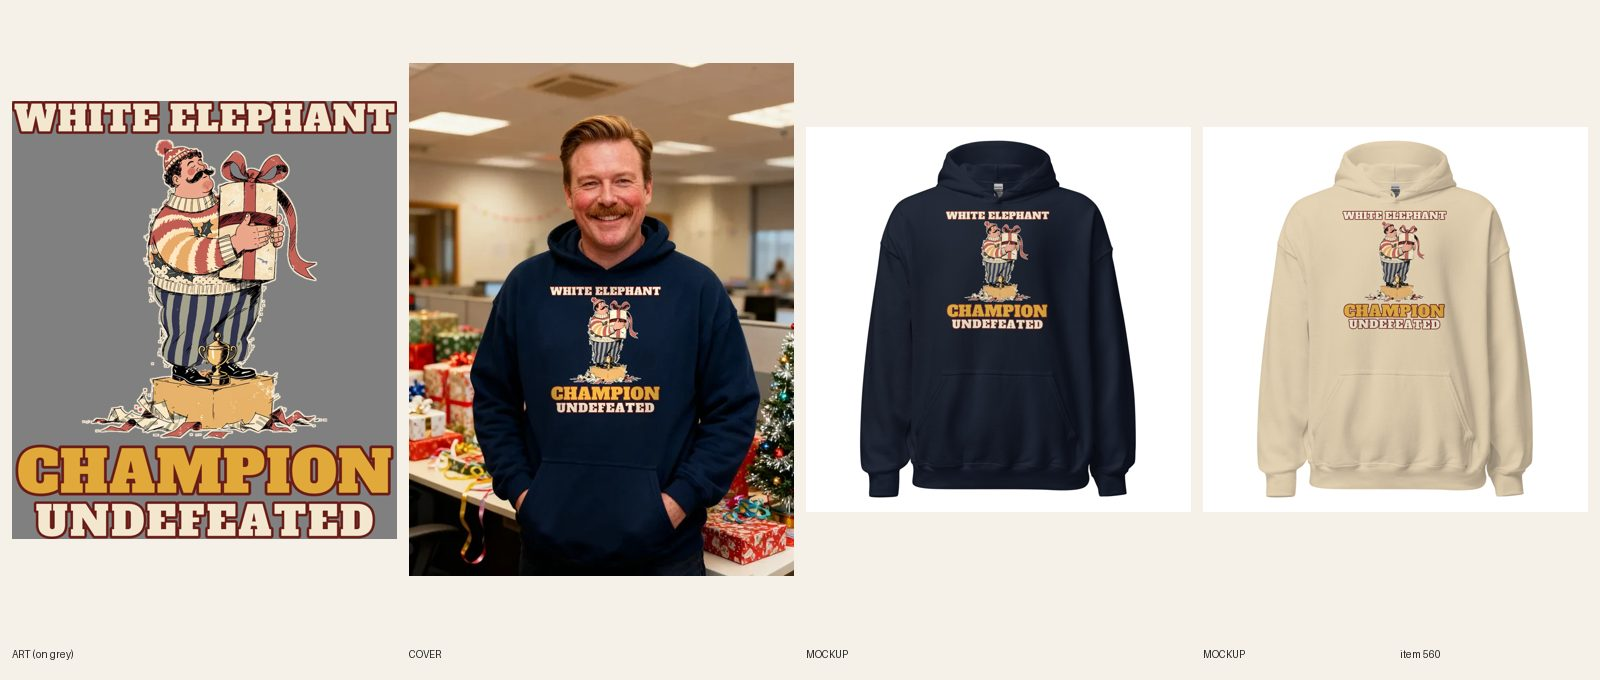
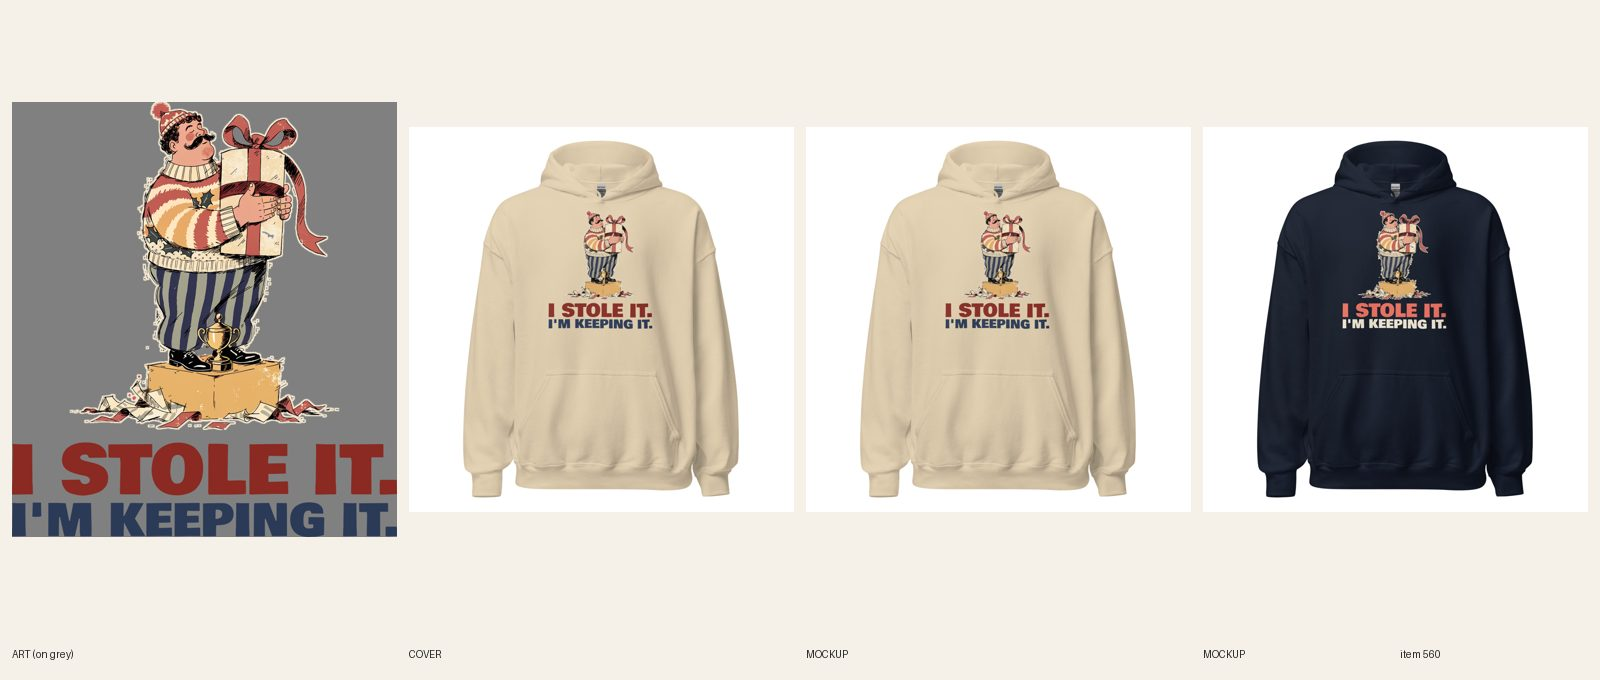
[C] review 560 Men's White Elephant Champion hoodie (approved print port)
Claude-Session: https://claude.ai/code/session_01D7G7yegxkSBpDHA38HTqRv

diff --git a/designs/c560/build.py b/designs/c560/build.py
@@ -1,0 +1,27 @@
+#!/usr/bin/env python3
+"""#560 hoodie: port of #275's approved I STOLE IT. / I'M KEEPING IT. print (docs/print-files/275-steal-dark-ink.png).
+Lockup copied untouched at full width; the art above it is scaled to R x the lockup width so the file stays near aspect 1.14
+(fits above the pouch seam at FW 1500). Also writes the Navy light-ink file (coral headline, cream second line).
+usage: build.py <275 dark-ink.png> <out dark.png> <out light.png> [R]"""
+import sys
+import numpy as np
+from PIL import Image
+src, out, outl = sys.argv[1:4]; R = float(sys.argv[4]) if len(sys.argv) > 4 else 0.70
+a = Image.open(src).convert('RGBA')
+H1, H2 = 4248, 4777  # headline / second line first rows (as in designs/a276/build.py)
+art = a.crop((0, 0, a.width, 4170)); art = art.crop(art.getbbox())
+head = a.crop((0, H1 - 20, a.width, H2 - 20)); head = head.crop(head.getbbox())
+sub = a.crop((0, H2 - 20, a.width, a.height)); sub = sub.crop(sub.getbbox())
+L = a.width; A = int(L * R); art = art.resize((A, int(art.height * A / art.width)), Image.LANCZOS)
+g1, g2 = 110, 60
+def make(hc, sc):
+    h = head.copy(); s = sub.copy()
+    for im, rgb in ((h, hc), (s, sc)):
+        if rgb:
+            p = np.array(im); p[:, :, :3] = rgb; im.paste(Image.fromarray(p))
+    c = Image.new('RGBA', (L, art.height + g1 + h.height + g2 + s.height), (0, 0, 0, 0))
+    c.alpha_composite(art, ((L - A) // 2, 0)); c.alpha_composite(h, (0, art.height + g1)); c.alpha_composite(s, (0, art.height + g1 + h.height + g2))
+    return c.crop(c.getbbox())
+d = make(None, None); d.save(out, dpi=(300, 300))
+l = make((0xf0, 0x70, 0x5f), (0xf5, 0xec, 0xd7)); l.save(outl, dpi=(300, 300))
+print(out, d.size, 'aspect %.2f' % (d.height / d.width))

diff --git a/docs/intake-log.md b/docs/intake-log.md
@@ -1,6 +1,6 @@
 RUNNING lane A since 2026-10-19 18:38 UTC
 2026-10-19 18:27 UTC — [E] Builder run: redid #555 Treat Me Like Wildlife tee (type only: heavy Anton rust/navy/green stacked lockup at full art width, same goat art, FW 1300, file 1089727831, 36/36 resynced, 6 fronts replaced in place, plain product shot). REVIEW. fal $0. 1 redo per run cap reached. Lock released.
-RUNNING lane C since 2026-10-19 18:27 UTC
+2026-10-19 18:34 UTC — [C] Builder run: redid #560 Men's White Elephant Champion hoodie (ported approved #275 I STOLE IT. / I'M KEEPING IT. print, art at 70% of lockup so it clears the pouch at FW 1500, Sand on dark file 1089733316, Navy on light-ink file 1089733323, 12/12 relinked, 2 fronts replaced in place, copy updated, plain product shot). REVIEW. fal $0. 1 redo per run cap reached. Lock released.
 RUNNING lane E since 2026-10-19 18:18 UTC
 2026-10-19 18:30 UTC — [D] Director run (RESUMED). Inbox: nothing new since the 17:55 note. Reviewed the 6 redo sheets that reached REVIEW (#240 #461 #463 #490 #494 #567): all at the new type bar, side by side with 493 and 483/479. LIVE 6 (cap); all were already ACTIVE and published (Online Store, Headless, Google & YouTube); Shopify copy matches the new lettering; cohesion-audit --handle PASS 0 warn on all 6; every handle is in retired-covers.json (plain product shot). No REDO this run. Still approved and held at REVIEW: #582 #633 #651 #653 and 31 add-ons; next run publishes the held A items first. READY: A 12, B 12, C 12 (E 5; REDO backlog 181, so no new briefs). No Telegram (midday digest went at 12:20; nothing needs Sam). npm ci run for the audit. Lock released.
 2026-10-19 18:09 UTC — [B] Builder run: redid #463 Core Issues crewneck (type only: heavy Anton rose I HAVE + Bowlby One charcoal CORE ISSUES at full art width, same art, FW 1650, file 1089718074, 12/12 resynced, 2 fronts replaced in place, plain product shot). REVIEW. fal $0. Lock released.
@@ -11,7 +11,6 @@ RUNNING lane B since 2026-10-19 18:00 UTC
 2026-10-19 17:56 UTC — [B] Builder run: redid #461 Expert in Après crewneck (type only: Alfa Slab burgundy headline at full art width + Anton navy second line, dark-ink file for Sand/Light Pink, same art, FW 1650, 12/12 resynced, 2 fronts replaced in place, plain product shot). REVIEW. fal $0. Lock released.
 2026-10-19 17:28 UTC — [E] Builder run: redid #494 Twelve Labors tee (type only: heavy Cinzel 900 terracotta/dark lockup at full art width, same art, FW 1650, 35/35 resynced, 5 fronts replaced in place, plain product shot). REVIEW. fal $0. 1 redo per run cap reached. Lock released.
 2026-10-19 17:52 UTC — [C] Builder run: redid #567 Men's Christmas Bulking Season oversized hoodie (ported #282's BULKING / SEASON lockup; Santa art scaled to 60% of lockup width so it clears the pouch, FW 1500, Printful file 1089698191, relinked 12/12, 2 fronts replaced in place, copy updated, plain product shot). REVIEW. fal $0. 1 redo per run cap reached. Lock released.
-RUNNING lane C since 2026-10-19 17:30 UTC
 2026-10-19 18:00 UTC — [D] Director run (RESUMED). Inbox: the NYE / cheap-gifts / ugly-sweater item noted (NYE briefs written; NYE page waits for 3 A-grade NYE products LIVE; the guide is Claude's). Reviewed the 5 redo sheets plus the held A items. LIVE 6 (cap): #274 #370 #441 #557 (redos, already ACTIVE) and #634 #654 (approved 09:16; set ACTIVE + Online Store, Headless, Google & YouTube). Audit --handle PASS 0 warn on all 6. Side-by-side verdicts vs 493/479/483 are in each pipeline file. Copy fixed in Shopify: #370 Story said cream capitals; #441 line one said 'the perfect shirt'. REDO #490 (cream MOOD IMPROVED. with a keyline on Sand, R5.3.8); builder card 7e now says a keyline is not a light file. Still approved and held: #582 #633 #651 #653 and the 35 add-ons; #240 arrived at REVIEW during the run and waits for the next one. Briefs: #700 #701 #702 NYE (lane A 12 READY; B 12, C 12). Rulebook R5.2: RankHero pages no longer list top listings, so the favorites gate moves to the builder. No Telegram (midday digest went at 12:20; nothing needs Sam). Lock released.
 2026-10-19 17:16 UTC — [A] Builder run: redid #240 Resting My Eyes crewneck (ported #239's approved print; crew file at 80% art width so MY EYES fits the print area at FW 1650; 30/30 synced, 5 mockups replaced, plain product shot). REVIEW. fal $0. Lock released.
 2026-10-19 16:57 UTC — [C] Builder run: redid #441 Eight Arms oversized hoodie again (director R5.3.8: separate navy-headline Dust file 1089678989, Dust 6/6 relinked, Dust front replaced in place, Navy unchanged). REVIEW. fal $0. 1 redo per run cap reached. Lock released.

diff --git a/docs/pipeline/560-christmas-hoodie-white-elephant-champion.md b/docs/pipeline/560-christmas-hoodie-white-elephant-champion.md
@@ -1,4 +1,4 @@
-status: BUILDING [C] 2026-10-19 18:27
+status: REVIEW
 lane: C
 type: twin
 id: 560
@@ -28,3 +28,4 @@ kd: 10
 - 2026-10-18 03:16 UTC director: LIVE. Sheet seen: mustached champ on a podium hugging a gift, WHITE ELEPHANT CHAMPION UNDEFEATED reads on Navy and Sand; man at an office party. ACTIVE + Online Store, Headless, Google & YouTube; audit --handle PASS (0 warn).
 - 2026-10-18 17:22 UTC director: QUALITY RESET grade C (new line + type), REDO. The product stays ACTIVE (same handle, URL, title keyword). 1. Line (R3.12, quality-reset 'Lines'): "WHITE ELEPHANT / CHAMPION / UNDEFEATED": Generic brag line, no twist or surprise; describes the picture. Write 5 candidates, keep the one a stranger laughs at in 3 seconds without backstory; kill lines that only describe the picture; if none of the 5 is funny, PARK it. 2. Quality reset type bar (docs/backlog/quality-reset.md, 'The new bar'): headline at least 90% of the art width, heavy, colors pulled from the art; second line at least 45% of the headline's height, never a thin script on a dark or mid garment; use the lettering as a shape (arch, stacked lockup, words breaking into the art), not a plain bar above and a script line below; no font used on more than 1 in 6 of the last 30 designs. 3. Keep the art if it carries the new line, else one new illustration (R4/R5). New print means a new cover per R6.10, copy line one rewritten for the new joke (R8.3), and a fresh review sheet (R7.7). While quality-reset.md says PAUSED, only lane A builds, and only the samples step 2 names.
 - 2026-10-19 15:55 UTC director: SHORTCUT for this REDO: its source design #275 went LIVE today with the line I STOLE IT. / I'M KEEPING IT., approved by Sam (quality-reset sample). Do not write new lines: port the #275 print (Printful file 1089080077) to this blank. Set your own width for this garment (R5.3.8 twins: crewneck FW 1650, hoodie FW 1500+, top of print about 3 in below the collar), make a light-ink file only if a dark garment color is offered (R5.3.8), relink every variant and log the count (R7.7), new fronts per color, copy line one and FAQ updated to the new line, plain product shot cover (add the handle to src/data/retired-covers.json; no new cover, RESUME terms), fresh docs/review/<id>.jpg. fal $0. Take these before other REDOs: they are the fastest way to match Sam-approved designs across garments.
+- 2026-10-19 18:34 UTC builder [C]: REDO 560 ported Sam-approved #275 print I STOLE IT. / I'M KEEPING IT. (Bowlby One, lockup untouched at full print width) to the Gildan 18500 hoodie. designs/c560/build.py scales the art to 70% of the lockup width so the file is aspect 1.13 (3400x3841) and ends well above the pouch seam; FW 1500 TOP 0. Navy offered, red/navy lockup sinks into it, so light file: Navy on 1089733323 (I STOLE IT. coral #f0705f, I'M KEEPING IT. cream #f5ecd7, art untouched); Sand on 1089733316 (headline fill ink red/navy). Relinked 12/12 verified (Sand 6, Navy 6), back logo 1080398177 kept (R7.7). 2 fronts replaced in place (fileUpdate), read at phone size on both. Copy: story, SEO title/meta and FAQs 1 and 4 updated to the new line and inks (FAQs 40-60 words, Dec 8 kept). Plain product shot (handle already in retired-covers.json). audit --handle PASS 0 warn. fal $0. Sheet docs/review/560.jpg. Set REVIEW.
